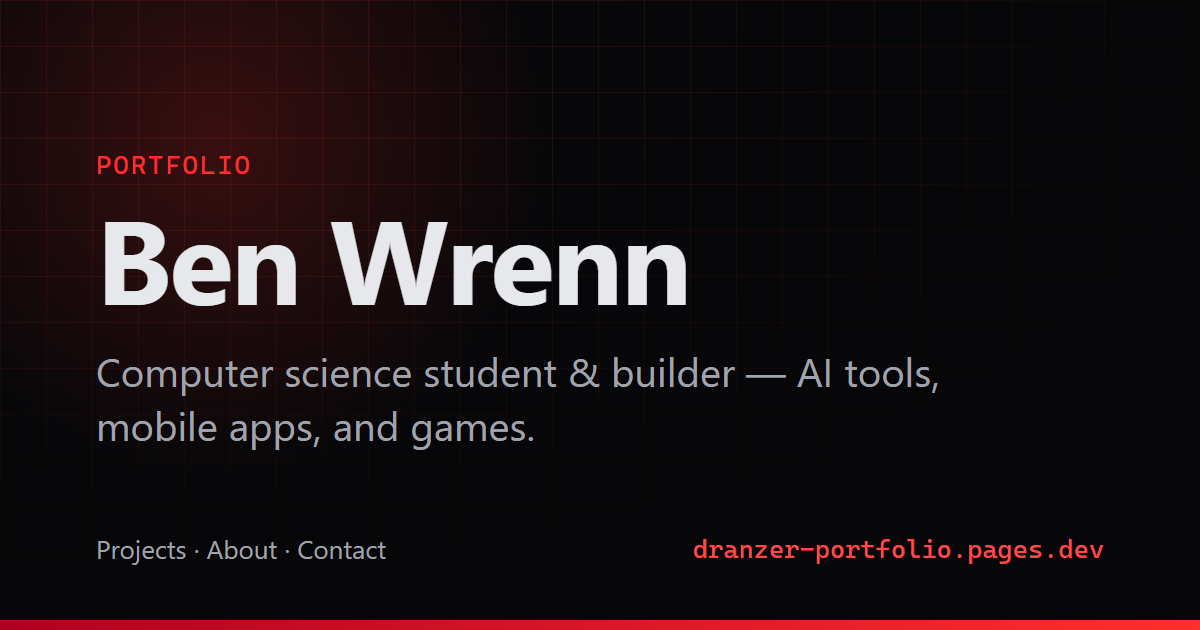
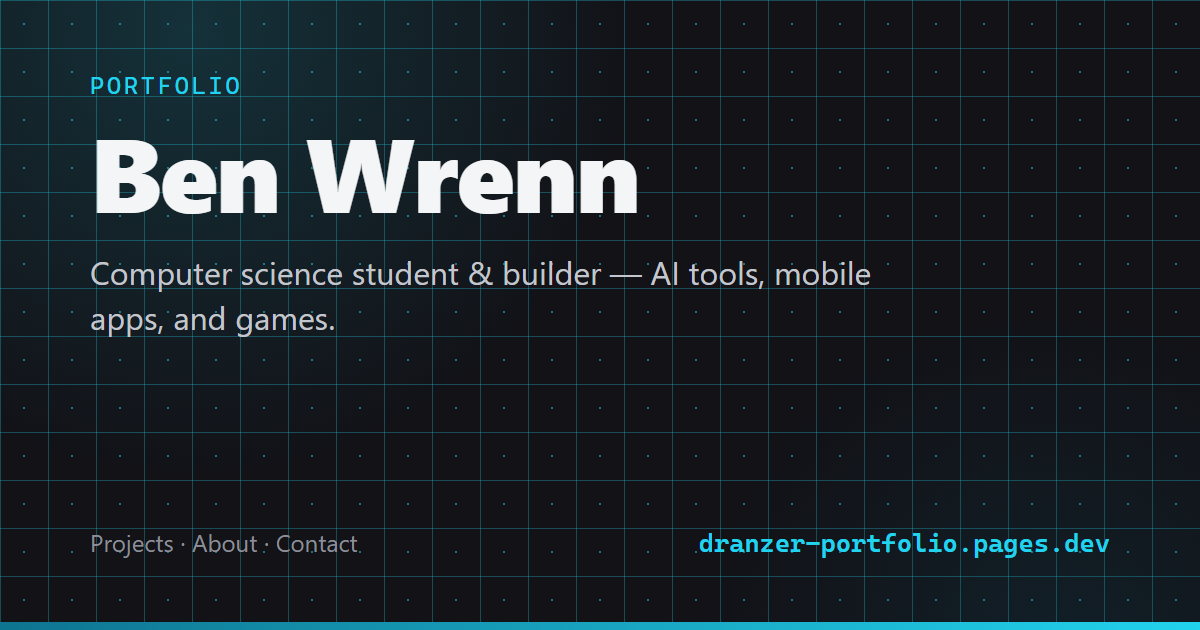
Regenerate the social-preview image to match the Signal palette
og-image.png (shown when the site link is shared) still had the old
red mark after the redline -> Signal rework. Kept the generator this
time (scripts/og-image.html, screenshot it at 1200x630) instead of a
throwaway file, so it's easy to redo next time the palette changes.

diff --git a/scripts/og-image.html b/scripts/og-image.html
@@ -1,0 +1,95 @@
+<!doctype html>
+<!--
+  Generator for public/og-image.png, the link-preview image shown when the
+  site is shared (LinkedIn, Slack, texts). Not part of the built site — open
+  this at exactly 1200x630 and screenshot it, then save over public/og-image.png.
+  Kept here (instead of a one-off temp file) so it's easy to regenerate again
+  the next time the palette changes.
+-->
+<html>
+<head>
+<meta charset="utf-8">
+<style>
+  @font-face {
+    font-family: "sysmono";
+    src: local("Cascadia Code"), local("SF Mono"), local("Consolas");
+  }
+  html, body {
+    margin: 0; width: 1200px; height: 630px; overflow: hidden;
+    background: #121217;
+    font-family: system-ui, -apple-system, "Segoe UI", Roboto, "Helvetica Neue", Arial, sans-serif;
+  }
+  .grid {
+    position: absolute; inset: 0;
+    background-image:
+      linear-gradient(color-mix(in srgb, #22d3ee 30%, transparent) 1px, transparent 1px),
+      linear-gradient(90deg, color-mix(in srgb, #22d3ee 30%, transparent) 1px, transparent 1px);
+    background-size: 48px 48px;
+  }
+  .nodes {
+    position: absolute; inset: 0;
+    background-image: radial-gradient(color-mix(in srgb, #22d3ee 50%, transparent) 1.5px, transparent 1.5px);
+    background-size: 48px 48px;
+  }
+  .glow {
+    position: absolute; width: 900px; height: 900px; border-radius: 50%;
+    background: radial-gradient(circle, color-mix(in srgb, #22d3ee 16%, transparent) 0%, transparent 70%);
+    top: -420px; left: -260px;
+  }
+  .glow2 {
+    position: absolute; width: 700px; height: 700px; border-radius: 50%;
+    background: radial-gradient(circle, color-mix(in srgb, #0e7490 14%, transparent) 0%, transparent 70%);
+    bottom: -380px; right: -200px;
+  }
+  .content {
+    position: relative; height: 100%; box-sizing: border-box;
+    padding: 72px 90px; display: flex; flex-direction: column; justify-content: space-between;
+  }
+  .eyebrow {
+    font-family: "sysmono", ui-monospace, monospace;
+    font-size: 24px; letter-spacing: 0.12em; text-transform: uppercase;
+    color: #22d3ee;
+  }
+  h1 {
+    margin: 18px 0 0; font-size: 104px; font-weight: 800; letter-spacing: -0.02em;
+    color: #f4f5f6; line-height: 1;
+  }
+  .tagline {
+    margin-top: 28px; font-size: 32px; line-height: 1.4; max-width: 820px;
+    color: #c3c6cd;
+  }
+  .footer {
+    display: flex; justify-content: space-between; align-items: baseline;
+  }
+  .nav {
+    font-size: 24px; color: #8c8f99;
+  }
+  .url {
+    font-family: "sysmono", ui-monospace, monospace;
+    font-size: 26px; color: #22d3ee; font-weight: 600;
+  }
+  .bar {
+    position: absolute; left: 0; right: 0; bottom: 0; height: 8px;
+    background: linear-gradient(90deg, #0e7490, #22d3ee);
+  }
+</style>
+</head>
+<body>
+  <div class="grid"></div>
+  <div class="nodes"></div>
+  <div class="glow"></div>
+  <div class="glow2"></div>
+  <div class="content">
+    <div>
+      <div class="eyebrow">Portfolio</div>
+      <h1>Ben Wrenn</h1>
+      <div class="tagline">Computer science student &amp; builder &mdash; AI tools, mobile apps, and games.</div>
+    </div>
+    <div class="footer">
+      <div class="nav">Projects &middot; About &middot; Contact</div>
+      <div class="url">dranzer-portfolio.pages.dev</div>
+    </div>
+  </div>
+  <div class="bar"></div>
+</body>
+</html>
